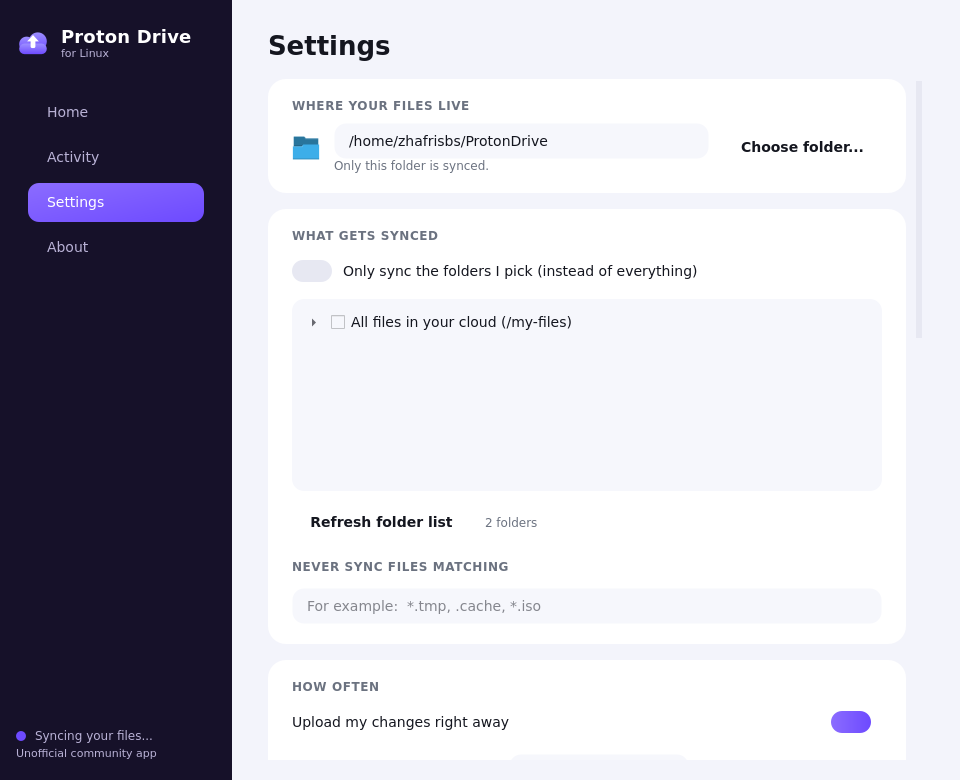
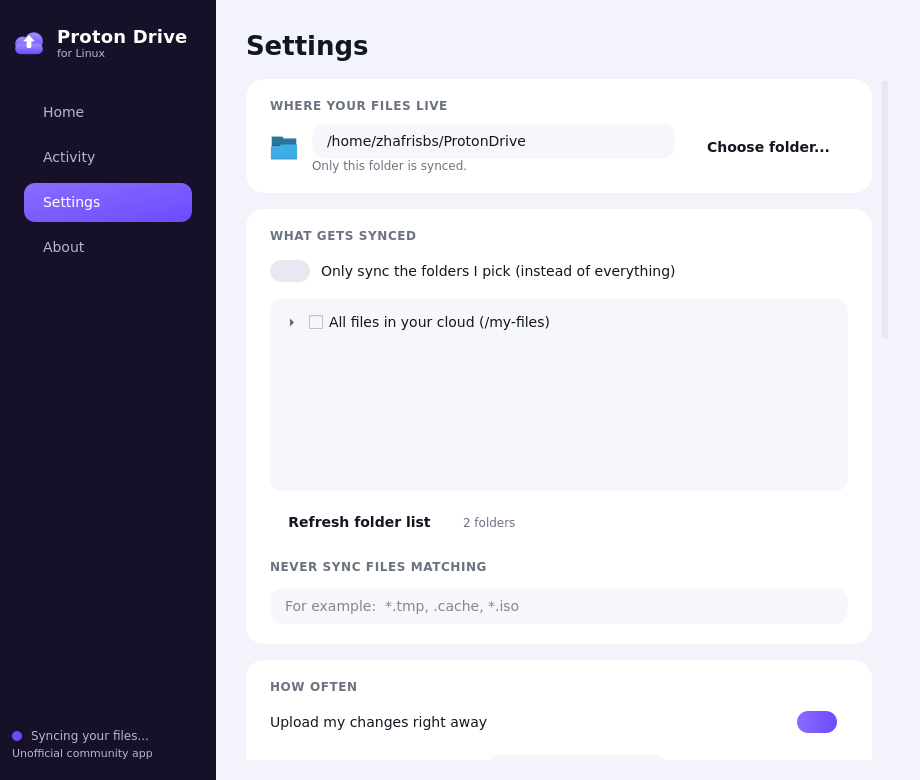
gui v3.3: slimmer window - min width 960->920, default 980->940, sidebar 232->216, page margins 36->30, pill padding -2px; zero horizontal scroll verified on x11 at every size (Home 607 vs 644 viewport); sidebar layout min 200 <= 216 (no clipping); 106/106

diff --git a/scripts/proton-sync-gui.py b/scripts/proton-sync-gui.py
@@ -45,7 +45,7 @@ from PyQt6.QtWidgets import (QApplication, QCheckBox, QComboBox,
                              QTreeWidget, QTreeWidgetItem, QVBoxLayout,
                              QWidget)
 
-GUI_VERSION = "3.2.0"
+GUI_VERSION = "3.3.0"
 
 REPO_URL = "https://github.com/zhafribs/Proton-Drive-Linux-Cli"
 CONF_FILE = Path.home() / ".config" / "proton-sync.conf"
@@ -534,12 +534,12 @@ QPushButton:hover {{ background: {HOVER}; }}
 QPushButton:disabled {{ color: {MUTED}; background: transparent; }}
 QPushButton#primary {{ background: qlineargradient(x1:0,y1:0,x2:1,y2:1,
                         stop:0 {ACCENT_L}, stop:1 {ACCENT}); color: #ffffff;
-                       border-radius: 22px; padding: 12px 24px; font-size: 14px; }}
+                       border-radius: 22px; padding: 12px 22px; font-size: 14px; }}
 QPushButton#primary:hover {{ background: qlineargradient(x1:0,y1:0,x2:1,y2:1,
                              stop:0 #9d84ff, stop:1 #7c5cff); }}
 QPushButton#primary:disabled {{ background: {HOVER}; color: {MUTED}; }}
 QPushButton#secondary {{ background: {CARD}; border: 1px solid {BORDER};
-                         border-radius: 22px; padding: 11px 20px; font-size: 14px; }}
+                         border-radius: 22px; padding: 11px 18px; font-size: 14px; }}
 QPushButton#secondary:hover {{ background: {HOVER}; }}
 QPushButton#ghostDanger {{ color: {ERROR}; }}
 QPushButton#seg {{ border-radius: 10px; padding: 7px 16px; color: {MUTED}; }}
@@ -831,12 +831,13 @@ class MainWindow(QWidget):
     def __init__(self):
         super().__init__()
         self.setWindowTitle("Proton Drive")
-        # 960 is the narrowest width where every page fits without a
+        # 920 is the narrowest window where every page fits without a
         # horizontal scrollbar and the About title/version lines stay single -
-        # verified against the real (x11) styling, with margin for font
-        # differences across distros (pill padding trimmed to help).
-        self.setMinimumSize(960, 540)
-        self.resize(980, 780)
+        # sidebar 216 + page margins 60 leave 644px of content against a
+        # 607px worst-case page (Home), verified on x11 with room for font
+        # differences across distros.
+        self.setMinimumSize(920, 540)
+        self.resize(940, 780)
         self._quitting = False
         self._tray_warned = False
         self._identity = {"version": "?", "email": None, "logged_in": False}
@@ -892,9 +893,9 @@ class MainWindow(QWidget):
 
         side = QFrame()
         side.setObjectName("sidebar")
-        side.setFixedWidth(232)
+        side.setFixedWidth(216)
         sl = QVBoxLayout(side)
-        sl.setContentsMargins(16, 26, 16, 20)
+        sl.setContentsMargins(12, 26, 12, 20)
         sl.setSpacing(4)
 
         head = QHBoxLayout()
@@ -956,7 +957,7 @@ class MainWindow(QWidget):
     def _home_page(self) -> QWidget:
         page = QWidget()
         outer = QVBoxLayout(page)
-        outer.setContentsMargins(36, 30, 36, 20)
+        outer.setContentsMargins(30, 30, 30, 20)
         outer.setSpacing(18)
 
         inner = QWidget()
@@ -1075,7 +1076,7 @@ class MainWindow(QWidget):
     def _activity_page(self) -> QWidget:
         page = QWidget()
         outer = QVBoxLayout(page)
-        outer.setContentsMargins(36, 30, 36, 20)
+        outer.setContentsMargins(30, 30, 30, 20)
         outer.setSpacing(18)
 
         head = QHBoxLayout()
@@ -1172,7 +1173,7 @@ class MainWindow(QWidget):
     def _settings_page(self) -> QWidget:
         page = QWidget()
         outer = QVBoxLayout(page)
-        outer.setContentsMargins(36, 30, 36, 20)
+        outer.setContentsMargins(30, 30, 30, 20)
         outer.setSpacing(18)
         title = QLabel("Settings")
         title.setObjectName("pageTitle")
@@ -1439,7 +1440,7 @@ class MainWindow(QWidget):
     def _about_page(self) -> QWidget:
         page = QWidget()
         outer = QVBoxLayout(page)
-        outer.setContentsMargins(36, 30, 36, 20)
+        outer.setContentsMargins(30, 30, 30, 20)
         outer.setSpacing(18)
         title = QLabel("About")
         title.setObjectName("pageTitle")
@@ -2057,7 +2058,7 @@ class MainWindow(QWidget):
     def _apply_window_prefs(self):
         """Floating window: remembered size + stay-on-top flag.
 
-        Remembered sizes are floored to the no-scroll layout (960x780) so a
+        Remembered sizes are floored to the no-scroll layout (920x780) so a
         window saved before this version never comes back with content cut off.
         """
         if self._prefs.value("always_on_top", True, type=bool):
@@ -2070,7 +2071,7 @@ class MainWindow(QWidget):
                 w, h = sw, sh
         except (ValueError, TypeError):
             pass
-        w = max(w, 960)
+        w = max(w, 920)
         h = max(h, 780)
         geo = self.screen().availableGeometry() if self.screen() else None
         if geo:

diff --git a/README.md b/README.md
@@ -14,7 +14,7 @@ verified against Proton's published SHA-512 checksum before it is wrapped.
 | `dist/SHA256SUMS` | checksums of the outputs | |
 
 Upstream version: **0.9.0** (released 2026-10-05), `cli-drive@0.9.0+75612299`.
-Desktop app version: **3.2.0** — every release note ships the app's [development log](CHANGELOG.md).
+Desktop app version: **3.3.0** — every release note ships the app's [development log](CHANGELOG.md).
 
 ## Quick start
 
@@ -79,7 +79,7 @@ Settings live in `~/.config/proton-sync.conf` - edit by hand or with the app.
 |:---:|:---:|:---:|
 | ![Home](docs/screenshots/home.png) | ![Settings](docs/screenshots/settings.png) | ![Activity](docs/screenshots/activity.png) |
 
-*The compact floating window (980x780 default, 960x540 minimum - no page ever
+*The compact floating window (940x780 default, 920x540 minimum - no page ever
 scrolls sideways, stays on top, size remembered) - light theme shown; dark and
 system themes included.*
 

diff --git a/CHANGELOG.md b/CHANGELOG.md
@@ -1,3 +1,11 @@
+## 3.3.0 — 2026-10-17
+
+- Slimmer window: minimum width 960 → **920**, default width 980 → **940**,
+  with **zero horizontal scrolling on every page** at every allowed size -
+  same guarantees as 3.2, 40px less window (sidebar 232 → 216, page margins
+  tightened, pill padding trimmed 2px). The About title/version line still
+  never wraps.
+
 ## 3.2.0 — 2026-10-17
 
 - Fit guarantee: minimum window width set to 960 so **every** page shows with
